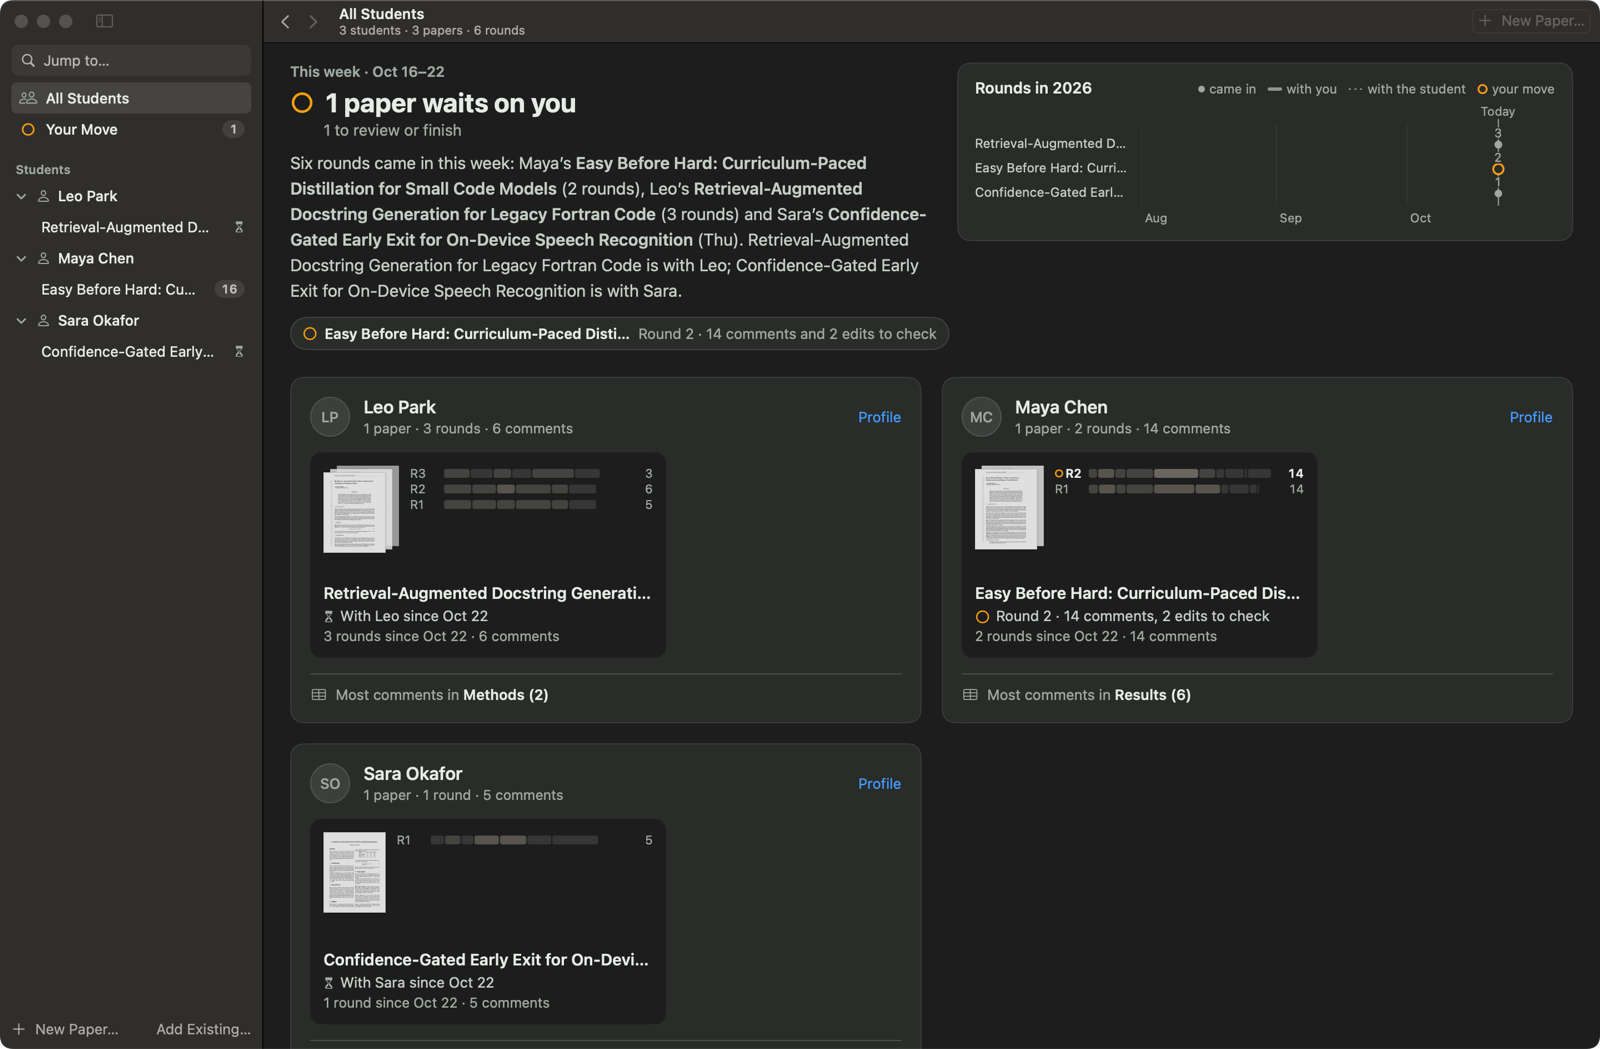
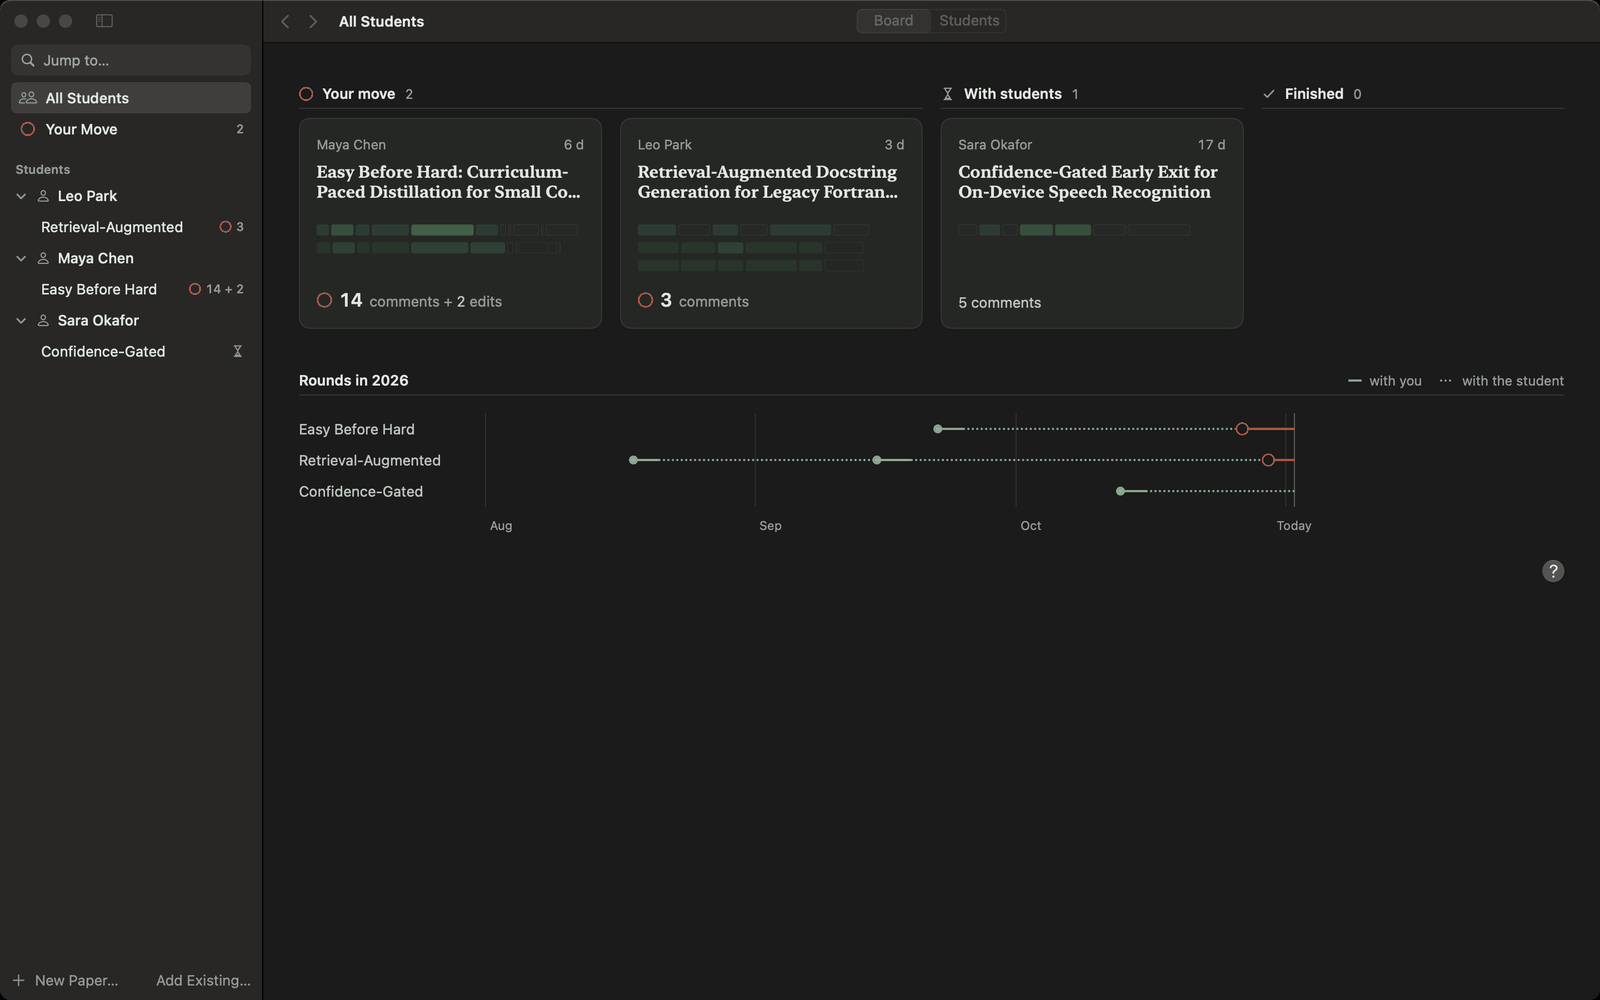
README: current features, new screenshots from the synthetic demo
Features rewritten for the reader (right-click menu, reference previews, the column of marks, Back, Go to Page, Clean Copy, zoom), Checks and the reference look-ups, the Board, the student page and Help. Your data now says what the optional look-ups send. Shell escape per paper in Limitations. Seven light/dark screenshot pairs from samples/promo-demo; the Export ones removed.

diff --git a/README.md b/README.md
@@ -29,7 +29,7 @@
 
 <picture>
   <source media="(prefers-color-scheme: dark)" srcset="docs/images/hero-dark.png">
-  <img src="docs/images/hero-light.png" width="900" alt="The review window: a student's round-2 PDF with comment marks, and on the right the card for comment R1-02 showing the original sentence, the student's note from main.tex, the revised sentence with the changed words underlined, and the Resolve, Follow up and Keep as is buttons">
+  <img src="docs/images/hero-light.png" width="900" alt="The review window: the contents on the left, a student's round-2 PDF with comment marks and the column of marks beside the scroller, and on the right the card for comment R1-02 showing the round-1 sentence, the student's note from main.tex, the revised sentence with the changed words underlined, and the Resolve, Follow up and Keep as is buttons">
 </picture>
 
 </div>
@@ -83,12 +83,12 @@ The icon comes in light and dark; **App icon** in Settings › General picks one
 
 1. **The student sends you the full source**, as a folder or a .zip.
 2. **Paperole takes a read-only snapshot and compiles it** with latexmk.
-3. **You comment on the PDF.** SyncTeX ties each comment to the .tex, and each gets an id such as `R1-03`.
-4. **Finish Round** writes `final.pdf`, with your comments in the margins, and you send it to the student.
+3. **You comment on the PDF.** SyncTeX ties each comment to the .tex, and each gets an id such as `R1-03`. If you turn on **Checks**, Paperole also lists slips of its own, such as bibliography entries cut to "et al.", each with an id such as `A2-01`.
+4. **Finish Round** writes `final.pdf`, with your comments (and the checks you didn't mark OK) in the margins, and you send it to the student.
 5. **In the next round, Paperole compares the two sources**, moves each open comment to its new place, and attaches the edits under it.
 6. **You answer each comment** with **Resolve**, **Follow up** or **Keep as is**, add new ones, and finish the round again.
 
-Only you close a comment; nothing is ever marked done for you. If a student wants to explain an edit, they can leave a LaTeX comment next to it that starts with the comment's id. It doesn't print, and Paperole shows it on the card:
+Only you close a comment; nothing is ever marked done for you. (A check is different: one that is no longer found closes itself as fixed.) If a student wants to explain an edit, they can leave a LaTeX comment next to it that starts with the comment's id. It doesn't print, and Paperole shows it on the card:
 
 ```latex
 At the 1.3B scale, the gain on HumanEval is 3.7 points. % R1-02 3.7 is right; 4.1 came from an earlier run, sorry.
@@ -99,28 +99,38 @@ At the 1.3B scale, the gain on HumanEval is 3.7 points. % R1-02 3.7 is right; 4.
 **Reviewing**
 - Select text and a small toolbar appears: six colours, highlight, underline or strikeout, and **Comment**.
 - ⌥-drag (or press B, then drag) to box a figure, table or equation; ⌥-click to place a note.
-- Click a mark to open its card. On a new comment's mark, a small toolbar also appears: change its colour or kind, edit the note, or delete it. The colour dot on a card changes colour and kind too. ⌘Z undoes.
-- **Find in Paper** (⌘F) searches the PDF as you type, ignoring case and accents. Return and Shift-Return step through the matches, and you can comment on a match like any selection.
-- **Jump to…** (⌘K) finds a comment, an edit, a section or a round.
-- **Focus** (F) hides the sidebar, enlarges the page and shows one card beside it.
+- Right-click for what fits the spot: on a selection **Comment…**, **Strike Out** and **Replace With…**; on a carried comment's mark **Resolve**, **Follow Up…** and **Keep as Is**; on a link **Go to p.N**; on the page **Add Note Here** and **Draw a Box**.
+- Click a mark to open its card. On a new comment's mark, a small toolbar also appears: change its colour or kind, edit the note, or delete it. ⌘Z undoes.
+- A click on a reference to a figure, table, equation or citation previews it in place: the target as printed, with **Go to ›**. A preview can be kept open in a small window of its own.
+- A column of marks beside the scroller shows what waits on you and where: comments to check, unasked edits and checks the student answered (while you find, the matches). Rest the pointer on one to see its rows; click to go there.
+- **Back** in the status line (or ⌘[) returns to where you were reading before a jump. Click "p.4 of 12" to go to a page, and ⌘C copies a quote with the lines joined and the line numbers dropped.
+- **Find in Paper** (⌘F) searches the PDF as you type, ignoring case and accents. **Jump to…** (⌘K) finds a comment, an edit, a section, a page or a round.
+- **Focus** (F) hides the sidebar, enlarges the page and shows one card beside it. Zoom from 50% to 400% (⌘+, ⌘−, ⌘0, Fit Width ⌘9).
 
 **Across rounds**
 - Each open comment follows the source diff to its new place. If the diff can't place it, Paperole looks for the comment's last known text in the new source, first exactly, then approximately (a box can also be found by its `\label`). A comment that still can't be placed is listed as *Not found*, never hidden, and a weak match is labelled "position uncertain".
 - The diff works word by word. It ignores re-wrapped lines and edits inside `%` comments, and it notices moved text.
 - A card reads like a conversation, one turn per round. Each turn shows the sentence as that round's PDF printed it, with the changed words underlined. Figures, tables and equations appear as crops of each round's PDF.
-- The **Changes** tab lists every edit since the last round. You go through the ones no comment asked for: **Mark Checked** or **Comment on it…**.
-- Earlier rounds open read-only from the round menu. **Reopen in Round N** brings back a comment you closed in an earlier round.
+- The **Changes** tab lists every edit since the last round. The **unasked edits**, the ones no comment asked for, come first, each with the sentence before and after: answer each with **Mark Checked** or **Comment on it…**.
+- Earlier rounds open read-only from the round menu, at the place you were reading. **Reopen in Round N** brings back a comment you closed in an earlier round.
+
+**Checks** (off by default; Settings › Reading)
+- Each round's PDF is checked for slips every draft should avoid, in five kinds you can pick: references, bibliography, consistency, typesetting and submission. Examples: a float placed far from its first citation, an author list cut to "et al.", an undefined reference, an overfull line.
+- The checks sit in a **Checks** tab beside the comments, with slate marks on the page. Each gets an id such as `A2-01` and goes to the student with your comments, unless you **Mark as OK**. You can also answer with **My Comment…** or **Follow Up…**.
+- The student replies with a `% A2-01` note, as for a comment. A check no longer found in the next round closes itself as fixed.
+- **Look up the references** has two switches, both off by default. **Semantic Scholar** finds a cited preprint that has since been published, a work with no record, or a year, title or first author that differs. **Google Scholar** adds citation counts. These are the only parts of Paperole that go online; see [Your data](#your-data).
 
 **Finishing a round**
-- One sheet shows what goes to the student, what is still to check, any follow-ups not yet sent, and the round's card so far.
-- **Finish Round** writes `final.pdf` and closes the round. You send `final.pdf` yourself; Paperole never sends mail. It does write a draft email, `email.txt`, which you can copy from the toolbar's **final.pdf** menu.
-- The sheet then turns into the **round's card**: how much you wrote, the topics by tag, where your marks fell on the pages, how earlier comments were answered, and a fact or two. **Copy Image** and **Export Image…** save it as a PNG 1080 pixels wide; the paper's title and the student's name appear only if you tick them. **Round N Summary…** in the round menu shows the card again later.
-- `final.pdf` starts with summary pages: how to reply, the to-do ids, comments by status, and edits nobody asked for. Then comes the paper with wider margins, your marks and notes drawn into the page itself rather than added as PDF annotations, and an outline that links to each comment.
+- One sheet shows what goes to the student, what is still to check (comments, unasked edits and checks the student answered), any follow-ups not yet sent, and the round's card so far.
+- **Finish Round** writes `final.pdf` and closes the round. You send `final.pdf` yourself; Paperole never sends mail. It also writes a draft email, `email.txt`, which you can copy from the toolbar's **final.pdf** menu.
+- The sheet then turns into the **round's card**: how much you wrote, the topics by tag, where your pen went on the pages, how earlier comments were answered, and a fact or two. **Copy Image** and **Export Image…** save it as a PNG 1080 pixels wide; the paper's title and the student's name appear only if you tick them. **Round N Summary…** in the round menu shows the card again later.
+- `final.pdf` starts with summary pages: how to reply, the to-do ids, comments by status, the automatic checks and edits nobody asked for. Then comes the paper with wider margins, your marks and notes drawn into the page itself rather than added as PDF annotations, and an outline that links to each comment.
 
 **The overview**
-- **All Students** shows this week's rounds, a timeline of the year and a card for each student. **Your Move** lists the papers waiting on you.
-- Each paper has a **paper map**: its rounds by section, where comments and edits fall, and where each comment went from round to round.
-- Each student has a page with their papers, where your comments on them land, and how many days each round trip took, theirs and yours.
+- **All Students** has two views. **Board** sorts the papers into three lanes, *Your move*, *With students* and *Finished*, above a timeline of the year's rounds, your time and the student's. **Students** lists them by student. **Your Move** lists only the papers waiting on you.
+- Each paper has a **paper map**: its pages, its rounds by section, where comments and edits fall, where each comment went from round to round, and the topics per round. A switch at the top right (or Settings › Overview) shows the same as a table.
+- Each student has a page: what waits on you, their papers, and tiles for where your comments land by section, how fast comments close, the topics, each round trip's days (theirs and yours), and what their first drafts tend to need.
+- **Help** (⌘?) explains each page, and a tip appears the first time you meet something new.
 
 **Writing tags**
 - Ten built-in tags (Grammar, Wording, Clarity, Logic & claims, Evidence & citations, Structure, Figures & tables, Math & notation, Format & LaTeX, Well done), plus your own.
@@ -133,14 +143,30 @@ At the 1.3B scale, the gain on HumanEval is 3.7 points. % R1-02 3.7 is right; 4.
     <td width="50%">
       <picture>
         <source media="(prefers-color-scheme: dark)" srcset="docs/images/overview-dark.png">
-        <img src="docs/images/overview-light.png" alt="All Students: one paper waits on you, a timeline of rounds in 2026, and cards for three students">
+        <img src="docs/images/overview-light.png" alt="All Students as a Board: two papers under Your move, one under With students, and below them a timeline of each paper's rounds from August to today">
       </picture>
       <p align="center"><sub>All Students: what waits on you</sub></p>
     </td>
     <td width="50%">
       <picture>
+        <source media="(prefers-color-scheme: dark)" srcset="docs/images/paper-map-dark.png">
+        <img src="docs/images/paper-map-light.png" alt="The paper map: the round's page thumbnails with their comments, rounds 1 and 2 by section joined across rounds, and a table of topics with the section each is mostly in">
+      </picture>
+      <p align="center"><sub>The paper map</sub></p>
+    </td>
+  </tr>
+  <tr>
+    <td width="50%">
+      <picture>
+        <source media="(prefers-color-scheme: dark)" srcset="docs/images/student-dark.png">
+        <img src="docs/images/student-light.png" alt="A student's page: the paper waiting on you, turnaround per round for you and the student, and tiles for comments by section, closing, topics and first drafts">
+      </picture>
+      <p align="center"><sub>A student's page</sub></p>
+    </td>
+    <td width="50%">
+      <picture>
         <source media="(prefers-color-scheme: dark)" srcset="docs/images/changes-dark.png">
-        <img src="docs/images/changes-light.png" alt="The Changes tab: an edit no comment asked for, with the round-1 sentence (412k struck out) above the round-2 sentence (386k), and Mark Checked and Comment on it buttons">
+        <img src="docs/images/changes-light.png" alt="The Changes tab: an unasked edit in the Setup section, with the round-1 sentence (412k struck out) above the round-2 sentence (386k), and Mark Checked and Comment on it buttons">
       </picture>
       <p align="center"><sub>Changes: an edit nobody asked for</sub></p>
     </td>
@@ -148,34 +174,33 @@ At the 1.3B scale, the gain on HumanEval is 3.7 points. % R1-02 3.7 is right; 4.
   <tr>
     <td width="50%">
       <picture>
-        <source media="(prefers-color-scheme: dark)" srcset="docs/images/paper-map-dark.png">
-        <img src="docs/images/paper-map-light.png" alt="The paper map: page thumbnails, rounds by sections with comments and edits, and a table of topics per round">
+        <source media="(prefers-color-scheme: dark)" srcset="docs/images/checks-dark.png">
+        <img src="docs/images/checks-light.png" alt="The Checks tab: check A2-01, Algorithm 1 two pages after its first citation, with Mark as OK and My Comment buttons, and two bibliography checks below; Algorithm 1 is outlined in slate on the page">
       </picture>
-      <p align="center"><sub>The paper map</sub></p>
+      <p align="center"><sub>Checks: slips Paperole finds itself</sub></p>
     </td>
     <td width="50%">
       <picture>
-        <source media="(prefers-color-scheme: dark)" srcset="docs/images/export-dark.png">
-        <img src="docs/images/export-light.png" alt="The Export Papers sheet with three papers ticked under their students">
+        <source media="(prefers-color-scheme: dark)" srcset="docs/images/round-card-dark.png">
+        <img src="docs/images/round-card-light.png" alt="The Round 1 Summary card: 199 words of comments, 14 new, 6 of 8 pages with a mark, the comments by tag, a strip of the pages showing where each mark fell, and the busiest page">
       </picture>
-      <p align="center"><sub>Export: one checked .zip</sub></p>
+      <p align="center"><sub>The round's card</sub></p>
     </td>
   </tr>
 </table>
 
-<sub>The screenshots show synthetic demo papers from <a href="samples/promo-demo/ISSUES.md"><code>samples/promo-demo</code></a>; the people are made up.</sub>
+<sub>The screenshots show synthetic demo papers from <a href="samples/promo-demo/ISSUES.md"><code>samples/promo-demo</code></a>; the papers, their numbers and the people are made up.</sub>
 
 ## Limitations
 
 - **Mac only, advisor only.** There is no student app or web page, and students reply only through `% R1-03` notes. There is no second reviewer, no sync, and no iPad, Windows or Linux version.
-- **It needs a local TeX Live** at `/Library/TeX/texbin` (the path is hard-coded). LaTeX runs with `-no-shell-escape`, so packages that need shell escape, such as minted, won't build.
+- **It needs a local TeX Live** at `/Library/TeX/texbin` (the path is hard-coded). LaTeX runs without shell escape. A paper that needs it, for minted for example, fails to build, and the build's details offer **Build Again with Shell Escape…** (or **Turn On Shell Escape…**) for that paper alone.
 - **Tested templates:** acmart (sigconf, acmsmall), ACL, ICLR, ICML 2026 (submission and accepted) and NeurIPS 2026 (submission and final), each over three synthetic rounds; all 253 carried comments ended up in the right state. IEEE, LNCS, Elsevier and REVTeX are untested.
 - **Only pdflatex has been tried for real.** xelatex and lualatex are wired in but untested. A `% !TEX program = …` line picks them, and xelatex is also picked for papers that use fontspec, xeCJK, polyglossia or unicode-math.
 - **Known rough edges**:
-  - formulas and figures quoted in the email come out garbled;
+  - formulas and figures quoted in `email.txt` come out garbled;
   - widened `final.pdf` pages print at about 75%;
   - a carried box may not fit a resized figure or equation;
-  - a drag that starts on a citation link selects nothing;
   - a student note can pick up an unrelated edit within three lines;
   - Increase Contrast is not supported;
   - pages with `/Rotate` are not supported.
@@ -239,14 +264,14 @@ You get Maya Chen's paper with round 2 open, Leo Park's with round 3 open, and S
 
 1. When the revision arrives, click **New Round…** and choose the new folder or .zip.
 2. On the **Comments** tab, the carried comments wait under **To check**. Each card shows what you wrote, what the student did, and the changed words underlined. Click **Resolve** or **Keep as is**, or type in the card's field and click **Follow up**. The panel moves on to the next card, and ⌘Z undoes an answer.
-3. On the **Changes** tab, go through the edits no comment asked for.
+3. On the **Changes** tab, go through the unasked edits. With Checks on, the **Checks** tab lists what Paperole found: **Mark as OK** whatever is fine, and the rest goes to the student.
 4. Add new comments, then click **Finish Round…** again. The first pages of `final.pdf` list the follow-ups, the comments still open, the new comments and the closed ones.
 
-Keys are optional: V resolves, W keeps as is, R jumps to the follow-up field, J and K move between cards, and ⌘F finds words in the PDF. The full keyboard map is in [mac/UX.md](mac/UX.md) §9.
+Keys are optional: V resolves, W keeps as is, R jumps to the follow-up field, J and K move between cards, ⌘F finds words in the PDF, and ⌘? opens Help. The full keyboard map is in [mac/UX.md](mac/UX.md) §9.
 
 ## Your data
 
-- **Local only.** No account, no sync, no uploads, no mail. Paperole has no network code.
+- **Local only.** No account, no sync, no uploads, no mail. The one exception is optional and off by default: under **Look up the references** (Settings › Reading, with Checks on), **Semantic Scholar** and **Google Scholar** are separate switches. Each sends the cited works' titles (and, to Semantic Scholar, their arXiv ids or DOIs). The paper and your comments never leave your Mac. Links you open from the PDF, and the system's Look Up, go out as they would in any app.
 - **The student's folder is read once**, into a read-only snapshot, and never written to.
 - **The engine is the only writer** of the ledger and of every PDF. Writes are atomic, and each finished round gets a SHA-256 manifest.
 - **Ledger history.** Earlier versions of the ledger are kept in `.history/`: one at each new round, each Finish and each Reopen, and more as you work. **Put Back an Earlier Ledger…** in a paper's context menu restores one as a new version.
@@ -382,7 +407,7 @@ All launch arguments and script items are listed in [mac/README.md](mac/README.m
 
 | Document | What it covers | Language |
 |---|---|---|
-| [mac/UX.md](mac/UX.md) | The app's interaction spec, §1–§34 | English |
+| [mac/UX.md](mac/UX.md) | The app's interaction spec, §1–§42 | English |
 | [mac/README.md](mac/README.md) | Building, launch arguments, debug hooks, the engine path | English |
 | [engine/CONTRACT.md](engine/CONTRACT.md) | Review folder, ledger, CLI/RPC methods, state JSON, final PDF and email | English |
 | [engine/README.md](engine/README.md) | Engine setup, CLI reference, a three-round walk-through | English |
